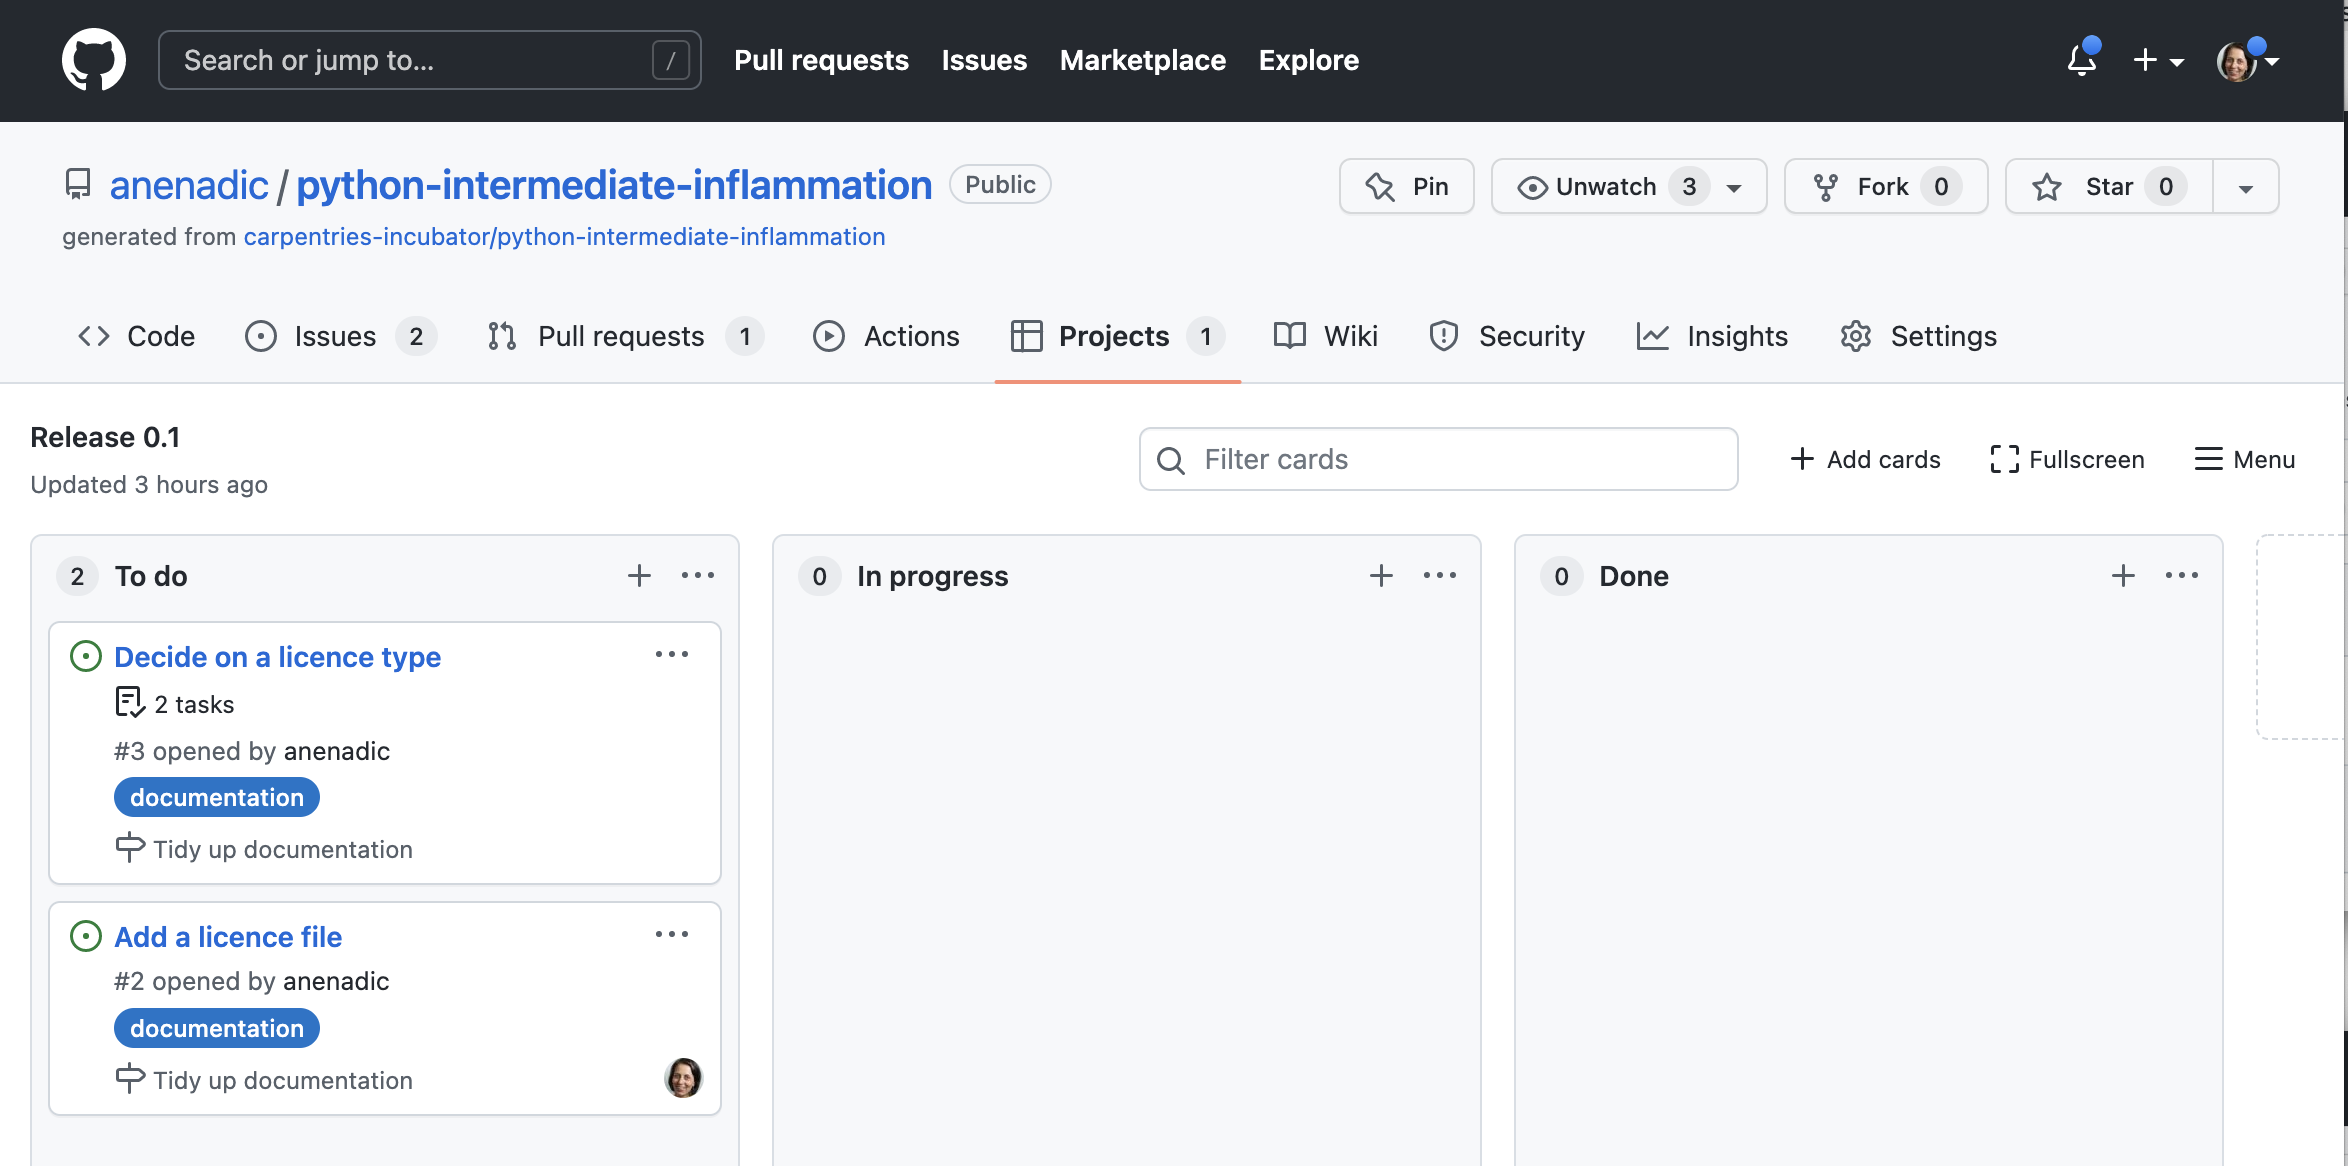
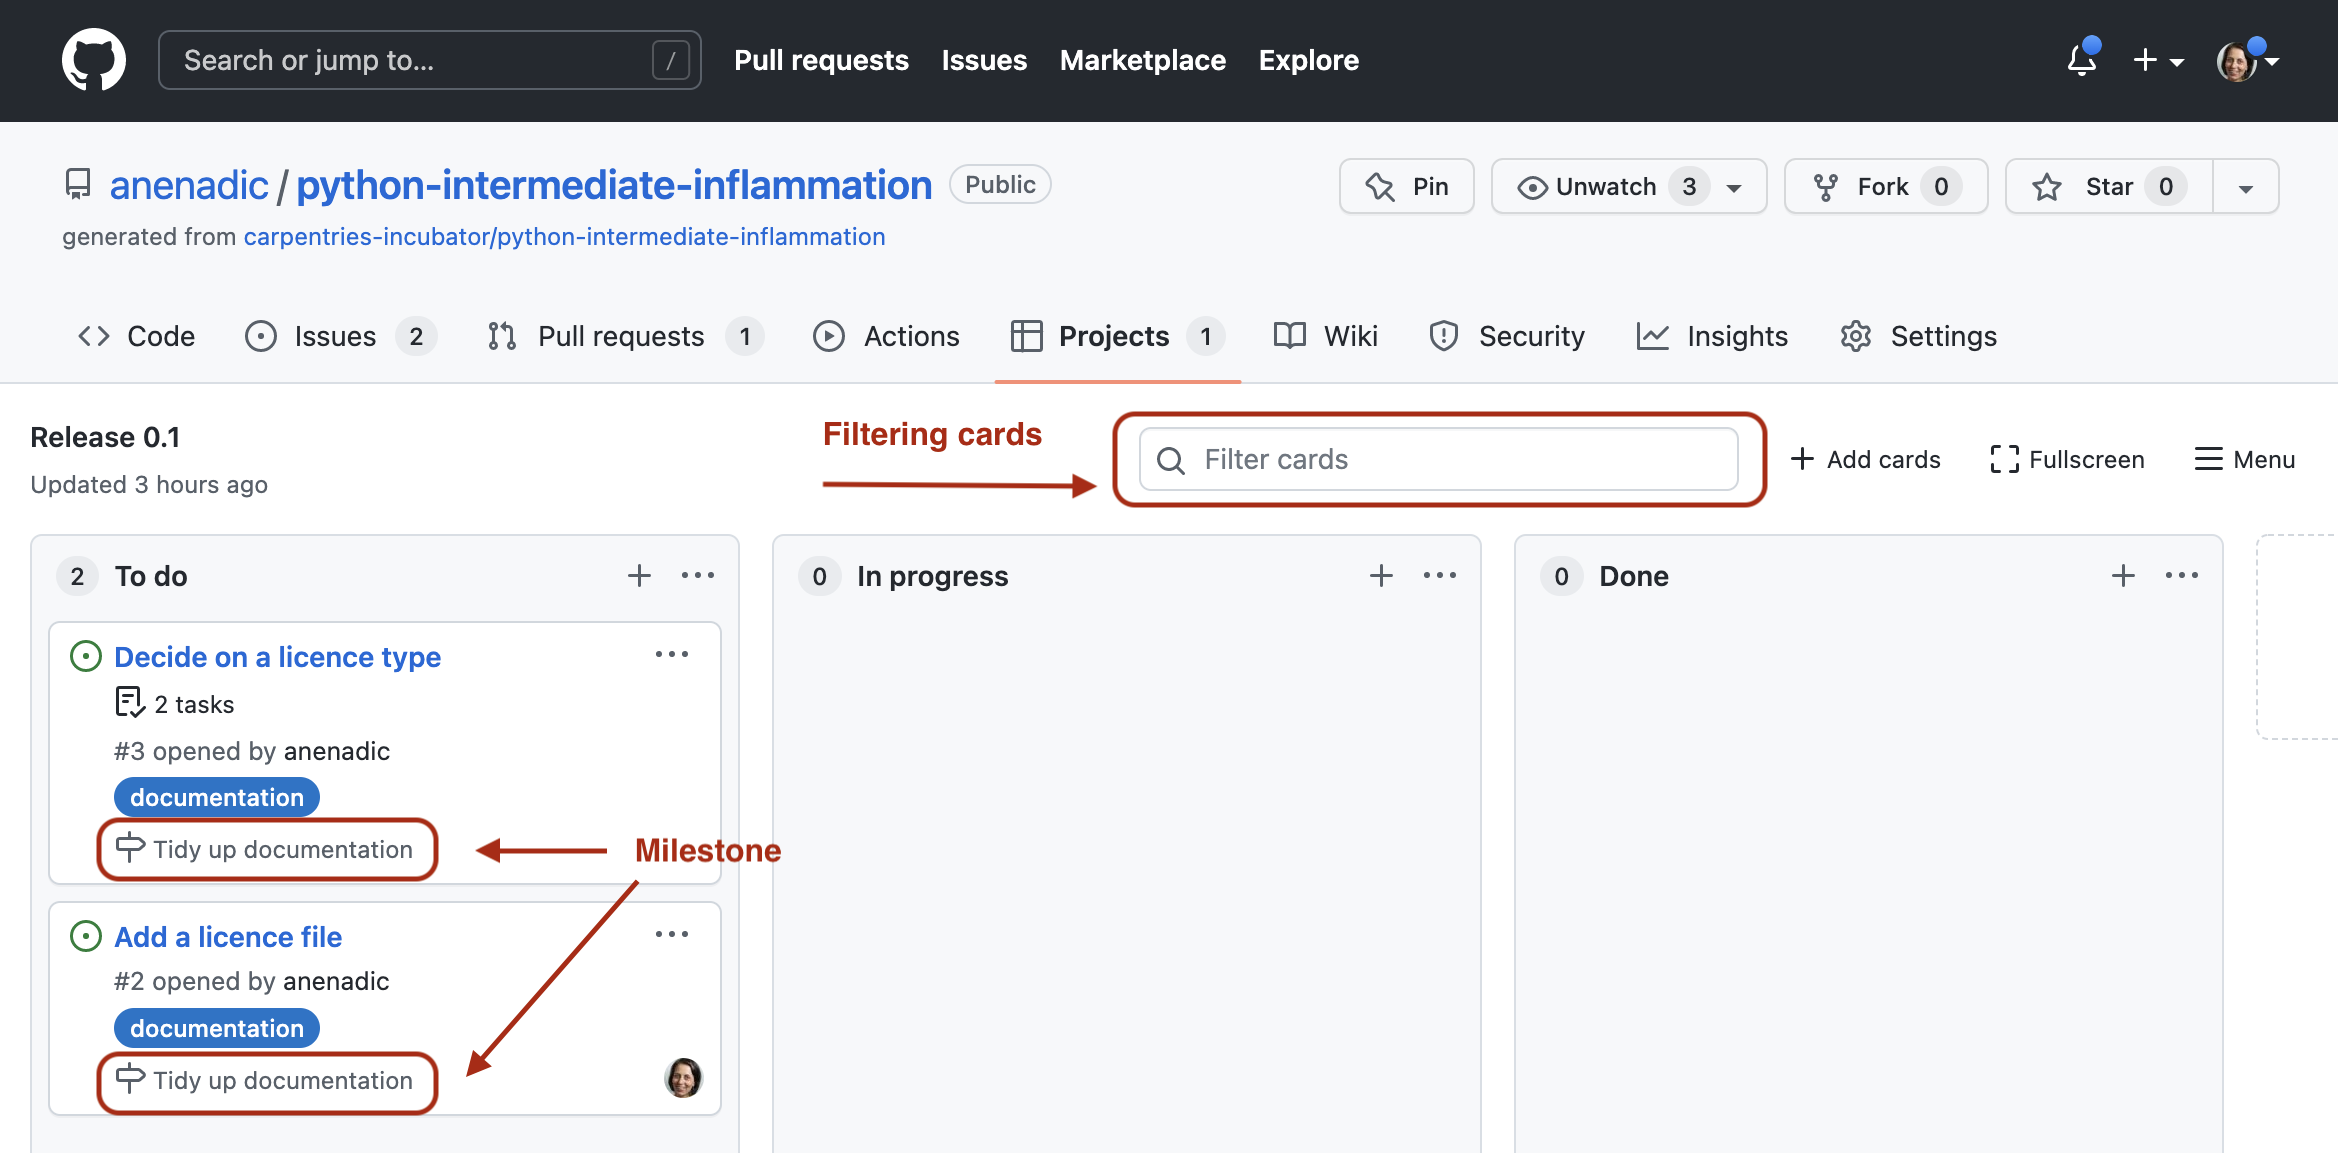
Expanded on milestones and project boards and added more screenshots.

diff --git a/_episodes/53-improvement-through-feedback.md b/_episodes/53-improvement-through-feedback.md
@@ -45,7 +45,7 @@ It is often not the reality, but estimation should ideally be done by the people
 
 > ## Why is it so Difficult to Estimate?
 >
-> Estimation is a very valuable skill to learn, and one that is often difficult. Lack of experience in estimation can play a part, but a number of psychological causes can also contribute. One of these is Dunning-Kruger, a type of cognitive bias in which people tend to overestimate their abilities, whilst in opposition to this is imposter syndrome, where due to a lack of confidence people underestimate their abilities. The key message here is to be honest about what you can do, and find out as much information that is reasonably appropriate before arriving at an estimate.
+> Estimation is a very valuable skill to learn, and one that is often difficult. Lack of experience in estimation can play a part, but a number of psychological causes can also contribute. One of these is [Dunning-Kruger](https://en.wikipedia.org/wiki/Dunning%E2%80%93Kruger_effect), a type of cognitive bias in which people tend to overestimate their abilities, whilst in opposition to this is [imposter syndrome](https://en.wikipedia.org/wiki/Impostor_syndrome), where due to a lack of confidence people underestimate their abilities. The key message here is to be honest about what you can do, and find out as much information that is reasonably appropriate before arriving at an estimate.
 >
 > More experience in estimation will also help to reduce these effects. So keep estimating!
 {: .callout}
@@ -75,14 +75,35 @@ In typical use, the ratio to aim for of requirements to the MH/SH/CH categories 
 
 Why is this important? Because it gives you a unique degree of control of your project. It awards you 40% of flexibility with allocating your effort depending on what's critical and how things progress. This effectively forces a tradeoff between the effort available and critical objectives, maintaining a significant safety margin. The idea is that as a project progresses, even if it becomes clear that you are only able to deliver the Must Haves, you have delivered a *successful* project.
 
-Once we've decided on those we'll work on (i.e. not Won't Haves), we can optionally assign them to a GitHub issue **milestone** to organise them. A milestone is a collection of issues to be worked on in a given period (or timebox). We can create a new one by selecting `Issues` on our repository, then `milestones` to display any existing milestones, then `New milestone`. We add in a title, a completion date (i.e. the end of this timebox), and any description for the milestone. Once created, we can view our issues and assign them to our milestone from the `Issues` page.
+### GitHub's Milestones
+
+Once we've decided on those we'll work on (i.e. not Won't Haves), we can (optionally) use a GitHub's 
+**Milestone** to organise them. Remember, a milestone is a collection of issues to be worked on in a given period 
+(or timebox). We can create a new one by selecting `Issues` on our repository, then `Milestones` to display any 
+existing milestones, then clicking the "New milestone" button to the right.
+![Milestones in GitHub](../fig/github-create-milestone.png){: .image-with-shadow width="1000px"}
+
+We add in a title, a completion date (i.e. the end of this timebox),
+and any description for the milestone. 
+
+![Milestones in GitHub](../fig/github-milestones.png){: .image-with-shadow width="1000px"}
+
+Once created, we can view our issues and assign them to our milestone from the `Issues` page.
 
 > ## Prioritise!
 >
-> Put your stakeholder hats on, and as a team apply MoSCoW to the repository issues to determine how you will prioritise effort to resolve them in the allotted time. Try to stick to the 60/20/20 rule, and assign all issues you'll be working on (i.e. not Won't Haves) to a new milestone, e.g. version 1.1
->
+> Put your stakeholder hats on, and as a team apply MoSCoW to the repository issues to determine how you will prioritise effort to resolve them in the allotted time. Try to stick to the 60/20/20 rule, and assign all issues you'll be working on (i.e. not Won't Haves) to a new milestone, e.g. "Tidy up documentation" or "version 0.1".
 > Time: 10 mins
 {: .challenge}
+
+> ## Milestones in Project Boards
+> Milestones are also visible on project boards. If an issue or pull request belongs to a milestone, 
+> the name of the milestone will be displayed on the project card. 
+> You can add or remove an issue or pull request from milestones using the details sidebar, and filter your project 
+> cards by milestones using the search bar.
+>
+> ![Milestones in Project Boards](../fig/github-milestone-in-project-board.png){: .image-with-shadow width="900px"}
+{: .callout}
 
 ## Using Sprints to Organise and Work on Requirements
 
@@ -96,15 +117,10 @@ A sprint is an activity applied to a timebox, where development is undertaken on
 {: .challenge}
 
 Depending on how many issues were registered on your repository, it's likely you won't have resolved all the issues in this first milestone. Of course, in reality, a sprint would be over a much longer period of time. In any event, as the development progresses into future sprints any unresolved issues can be reconsidered and prioritised for another milestone, which are then taken forward, and so on. This process of receiving new requirements, prioritisation, and working on them is naturally continuous - with the benefit that at key stages you are repeatedly **re-evaluating what is important and needs to be worked on** which helps to ensure real concrete progress against project goals and requirements which - particularly in academia - may change over time.
-        
-  
-TODO: link tasks with project boards or milestones, discuss with Steve and James pros and cons of introducing project boards
-## Project Boards For Planning Sprints and Prioritisation
 
-Once your project board has a large number of cards on it, you might want to begin priorisiting them. Not all tasks are going to be equally important, and some will require others to be completed before they can even be begun. Common methods of prioritisation include:
-
-- **Vertical position**: the vertical arrangement of cards in a column implicitly represents their importance. High-priority bugs go to the top of `To Do`, whilst tasks that depend on others go beneath them. This is the easiest one to implement, though you have to remember to correctly place cards when you add them.
-- **Priority columns**: instead of a single `To Do` column, you can have two or more, for example - `To Do: Low Priority` and `To Do: High Priority`. When adding a card, you pick which is the appropriate column for it. You can even add a Triage column for newly-added issues that you’ve not yet had time to classify. This format works well for project boards devoted to bugs.
-- **Labels**: if you convert each card into an issue, then you can label them with their priority - remember GitHub lets you create custom labels and set their colours. Label colours can provide a very visually clear indication of issue priority but require more administrative work on the project, as each card has to be an issue to be assigned a label. If you choose this route for issue prioritisation - be aware of accessibility issues for colour-blind people when picking colours.
+> ## Project Boards For Planning Sprints
+> Remember, you can use project boards for higher-level project management - e.g. planning several sprints in advance 
+> (and use milestones for managing individual sprints).
+{: .callout}
 
 {% include links.md %}

diff --git a/_episodes/51-managing-software.md b/_episodes/51-managing-software.md
@@ -151,21 +151,21 @@ GitHub provides two project management tools for this purpose - **Milestones** a
 
 Both Milestones and Project Boards implement an agile development and project management system. 
 Milestones are good for [scrum-style project development and management](https://www.atlassian.com/agile/scrum) - 
-i.e. time-boxed, structured iterations and working in short sprints on batches of issues. Project Boards implement 
+i.e. timeboxed, structured iterations and working in short sprints on batches of issues. Project Boards implement 
 a [Kanban methodology](https://www.atlassian.com/agile/kanban) - 
 good for managing continuous delivery and steady flow of work in a project. 
 
 Both Project Boards and Milestones are a way of organising issues into smaller "sub-projects" (i.e. 
 smaller than the "project" represented by the whole repository). When should you use one over the other? 
 Project Boards provide a way of visualising and organising the work on an higher level (e.g. more suitable for 
-project management tasks) and are not time-bound. Milestones are a way to 
+project management tasks) and are not timeboxed (i.e. time-bound). Milestones are a way to 
 organise lower-level tasks that have deadlines and progress of which needs to be closely tracked 
 (e.g. release and version management). How you organise and partition your project work is up to you and the size 
 of your project. For example, you could create a project per 
 milestone or have several milestones in a single project, or split milestones into shorter sprints. 
 For a good description of differences between the two, have a look at [this answer on StackOverflow](https://stackoverflow.com/questions/39591795/what-is-the-difference-relationship-between-github-projects-and-milestones). 
-We will see Milestones in action in the next episode when we work with our team on a mini sprint - 
-let's have a brief look at Project Boards now.
+We will see Milestones in action soon when we work with our team on a mini sprint - 
+for now, let's have a brief look at Project Boards.
 
 ### Project Boards
 A Project Board (or Kanban board, from the Japanese word for a card) uses columns and cards to keep track of tasks. 
@@ -215,8 +215,32 @@ One common extra column that is typically seen is `On hold` or `Waiting` (you ca
 If you have tasks that get held up by waiting on other people (e.g. to respond to your questions) then moving them 
 to a separate column makes their current state clearer.
 
-> ## Working With Project Boards!
+> ## Working With Project Boards
 > Ideally, we'd have an exercise here. Or perhaps we can postpone for when more issues are added and/or more team work in involved.
+> 
+> An example exercise, for a want of a better one: Play around with a project board - practice with adding and closing 
+> notes and cards, adding and removing columns, closing issues, etc.
+> 
+> 5 min
 {: .challenge}
+
+> ## Prioritisation With Project Boards
+> Once your project board has a large number of cards on it, you might want to begin priorisiting them. 
+Not all tasks are going to be equally important, and some will require others to be completed before they 
+can even be begun. Common methods of prioritisation include:
+- **Vertical position**: the vertical arrangement of cards in a column implicitly represents their importance. 
+High-priority issues go to the top of `To Do`, whilst tasks that depend on others go beneath them. 
+This is the easiest one to implement, though you have to remember to correctly place cards when you add them.
+- **Priority columns**: instead of a single `To Do` column, you can have two or more, for example - 
+`To Do: Low Priority` and `To Do: High Priority`. When adding a card, you pick which is the appropriate column for it. 
+You can even add a `Triage` column for newly-added issues that you’ve not yet had time to classify. 
+This format works well for project boards devoted to bugs.
+- **Labels**: if you convert each card into an issue, then you can label them with their priority - remember GitHub 
+lets you create custom labels and set their colours. Label colours can provide a very visually clear indication of 
+issue priority but require more administrative work on the project, as each card has to be an issue to be assigned a 
+label. If you choose this route for issue prioritisation - be aware of accessibility issues for colour-blind people 
+when picking colours.
+>
+{: .callout}
 
 {% include links.md %}

diff --git a/_episodes/52-assessing-software-suitability-improvement.md b/_episodes/52-assessing-software-suitability-improvement.md
@@ -29,7 +29,7 @@ Overall, when adopting software to use it's important to consider not only wheth
 > Time: 5 mins
 >
 > 1. Decide as a team on one of your repositories that will represent your group. You can do this any way you wish.
-> 2. Add the URL of the repository to the section in the Google Doc labelled 'Decide on your Group's Repository' for this day, next to your team name in the empty table cell
+> 2. Add the URL of the repository to the section in a shared Google Doc labelled 'Decide on your Group's Repository' for this day, next to your team name in the empty table cell.
 {: .challenge}
 
 > ## Conduct Assessment on Third-Party Software
@@ -38,9 +38,9 @@ Overall, when adopting software to use it's important to consider not only wheth
 >
 > Time: 20 mins
 >
-> 1. As a team, briefly decide who will assess which aspect of the repository, e.g. its docs, tests, codebase, etc.
-> 2. Obtain the URL for the repository you will assess from the Google Doc, in the section labelled 'Decide on your Group's Repository' - see the last column which indicates from which team you should get their repository URL
-> 3. Conduct the assessment and register any issues you find on the other team's software repository
+> 1. As a team, briefly decide who will assess which aspect of the repository, e.g. its documentation, tests, codebase, etc.
+> 2. Obtain the URL for the repository you will assess from the Google Doc, in the section labelled 'Decide on your Group's Repository' - see the last column which indicates from which team you should get their repository URL.
+> 3. Conduct the assessment and register any issues you find on the other team's software repository.
 > 4. Be meticulous in your assessment and register as many issues as you can!
 {: .challenge}
 
